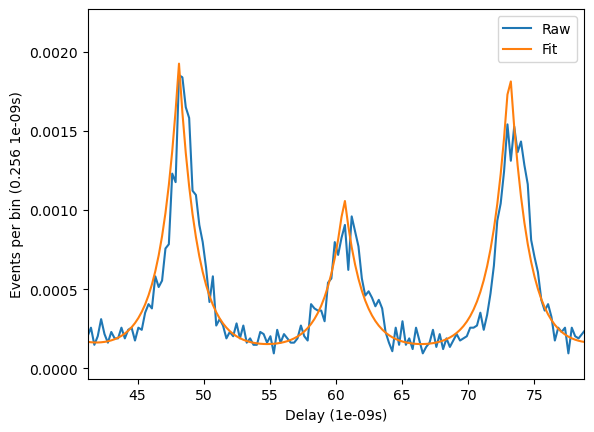
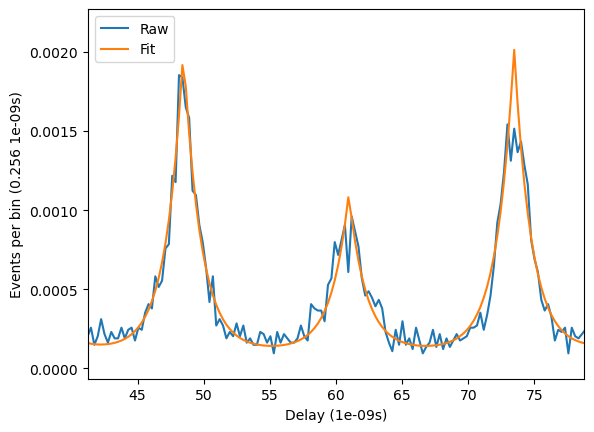
Single Fit
A backup where a single fit is applied to a sample.
This precedes the code being updated for fits of multiple-sized samples.

diff --git a/code/eda_fit.py b/code/eda_fit.py
@@ -9,6 +9,8 @@ import os
 
 import numpy as np
 
+from time import time
+
 import load
 import calc
 import plot
@@ -25,6 +27,10 @@ random_seed = 0
 constants = {}
 constants["duration_snapshot"] = 10     # Single sampling by detectors; unit s.
 constants["unit_delay"] = 1e-9          # SI unit for delays; 1 ns.
+
+knowns = {}
+knowns["period_pulse"] = 1/80e6         # Inverse of laser frequency in Hz.
+knowns["delay_mpe"] = [55e-9, 65e-9]    # Delay range where multi-photon events occur.
 
 full_filename_prefixes = load.get_full_filename_prefixes(folder_data)
 
@@ -51,20 +57,24 @@ for full_filename_prefix in full_filename_prefixes:
     for folder_base in [folder_plots, folder_saves]:
         if not os.path.exists(os.path.join(folder_base, folder_prefix)):
             os.makedirs(os.path.join(folder_base, folder_prefix))
-            
-    xlim_closeup = [60e-9 - (1/80e6)*3/2,
-                    60e-9 + (1/80e6)*3/2]
+    
+    # Set up a zoom for histogram plots.
+    xlim_closeup = [np.mean(knowns["delay_mpe"]) - knowns["period_pulse"]*3/2,
+                    np.mean(knowns["delay_mpe"]) + knowns["period_pulse"]*3/2]
     
     order_snapshot = np.random.permutation(range_snapshots)
+    df_events_shuffled = df_events[order_snapshot]
     
-    sr_sample = df_events.iloc[:,0:-1].sum(axis=1)
+    sr_sample = df_events_shuffled.iloc[:,0:-1].sum(axis=1)
     sr_sample /= np.sum(sr_sample)  # Normalise into a probability distribution.
     
-    fit_result = calc.estimate_g2zero_pulsed(sr_sample, sr_delays)
+    t = time()
+    fit_result = calc.estimate_g2zero_pulsed(sr_sample, sr_delays, knowns)
     fit_result.params.pretty_print()
+    print("Fit for %i parameters: %f s" % (len(fit_result.params), time() - t))
     
     # Plot the delay-based histogram of the sample, raw and fitted.
     plot.plot_event_histogram(sr_sample, sr_delays, constants["unit_delay"], plot_prefix + "_fit",
                               in_hist_comp = calc.func_pulsed(fit_result.params, sr_delays, sr_sample), 
                               in_label_comp = "Fit",
-                              in_closeup_xlim = xlim_closeup)
+                              in_xlim_closeup = xlim_closeup)

diff --git a/code/calc.py b/code/calc.py
@@ -40,9 +40,9 @@ def func_pulsed(params, x, y, return_fit_error = False):
     else:
         return fit
     
-def estimate_g2zero_pulsed(in_sr_sample, in_sr_delays):
+def estimate_g2zero_pulsed(in_sr_sample, in_sr_delays, in_knowns):
     
-    period_pulse = 1/80e6
+    period_pulse = in_knowns["period_pulse"]
     range_delays = in_sr_delays[in_sr_delays.size-1] - in_sr_delays[0]
     step_delays = in_sr_delays[1] - in_sr_delays[0]
     
@@ -54,7 +54,8 @@ def estimate_g2zero_pulsed(in_sr_sample, in_sr_delays):
     params = Parameters()
     params.add("bg", value = amp_uniform, min = 0, max = 1)
     params.add("period_pulse", value = period_pulse, min = 0, max = np.inf, vary = False)
-    params.add("delay_mpe", value = 60e-9, min = 55e-9, max = 65e-9)
+    params.add("delay_mpe", value = np.mean(in_knowns["delay_mpe"]), 
+               min = in_knowns["delay_mpe"][0], max = in_knowns["delay_mpe"][-1])
     params.add("amp_env", value = amp_peaked, min = 0, max = 1)
     params.add("amp_ratio", value = 0.5, min = 0, max = 1)
     params.add("decay_env", value = 0, min = 0, max = np.inf, vary = False)
@@ -64,6 +65,8 @@ def estimate_g2zero_pulsed(in_sr_sample, in_sr_delays):
     # Refine amplitude fit with the least-squares method.
     # Then run a five-parameter least-squares fit, just for the errors.
     fitted_params = minimize(func_pulsed, params, args=(in_sr_delays, in_sr_sample, True), 
+                              method="least_squares", calc_covar=False)
+    fitted_params = minimize(func_pulsed, fitted_params.params, args=(in_sr_delays, in_sr_sample, True), 
                               method="nelder_mead", calc_covar=False)
 
     fitted_params.params["delay_mpe"].vary = False
@@ -76,7 +79,7 @@ def estimate_g2zero_pulsed(in_sr_sample, in_sr_delays):
     fitted_params.params["bg"].vary = True
     fitted_params.params["decay_peak"].vary = True
     fitted_params = minimize(func_pulsed, fitted_params.params, args=(in_sr_delays, in_sr_sample, True), 
-                             method="least_squares")
+                              method="least_squares")
     # fitted_params.params.pretty_print()
     
     return fitted_params

diff --git a/code/plot.py b/code/plot.py
@@ -27,7 +27,7 @@ def plot_event_history(in_df_events, in_axis_time, in_save_prefix):
 
 def plot_event_histogram(in_hist, in_axis_delays, in_delay_unit, in_save_prefix,
                          in_hist_comp = None, in_label_comp = None,
-                         in_closeup_xlim = None):
+                         in_xlim_closeup = None):
     # Plot a delay-based histogram.
     # Optionally compare it against another function on the same axis.
     fig_sample, ax_sample = plt.subplots()
@@ -37,14 +37,14 @@ def plot_event_histogram(in_hist, in_axis_delays, in_delay_unit, in_save_prefix,
                        label=in_label_comp)
     ax_sample.set_xlabel("Delay (%ss)" % in_delay_unit)
     events_per_bin = (in_axis_delays[1]-in_axis_delays[0])/in_delay_unit
-    ax_sample.set_ylabel("Events per bin (%s %ss)" % (events_per_bin, in_delay_unit))
+    ax_sample.set_ylabel("Event probability per bin (%s %ss)" % (events_per_bin, in_delay_unit))
     ax_sample.legend()
     fig_sample.savefig(in_save_prefix + "_hist.png",
                        bbox_inches="tight")
     plt.close(fig_sample)
     
-    if in_closeup_xlim is not None:
-        ax_sample.set_xlim(np.array(in_closeup_xlim)/in_delay_unit)
+    if in_xlim_closeup is not None:
+        ax_sample.set_xlim(np.array(in_xlim_closeup)/in_delay_unit)
         fig_sample.savefig(in_save_prefix + "_hist_closeup.png",
                            bbox_inches="tight")
         plt.close(fig_sample)
